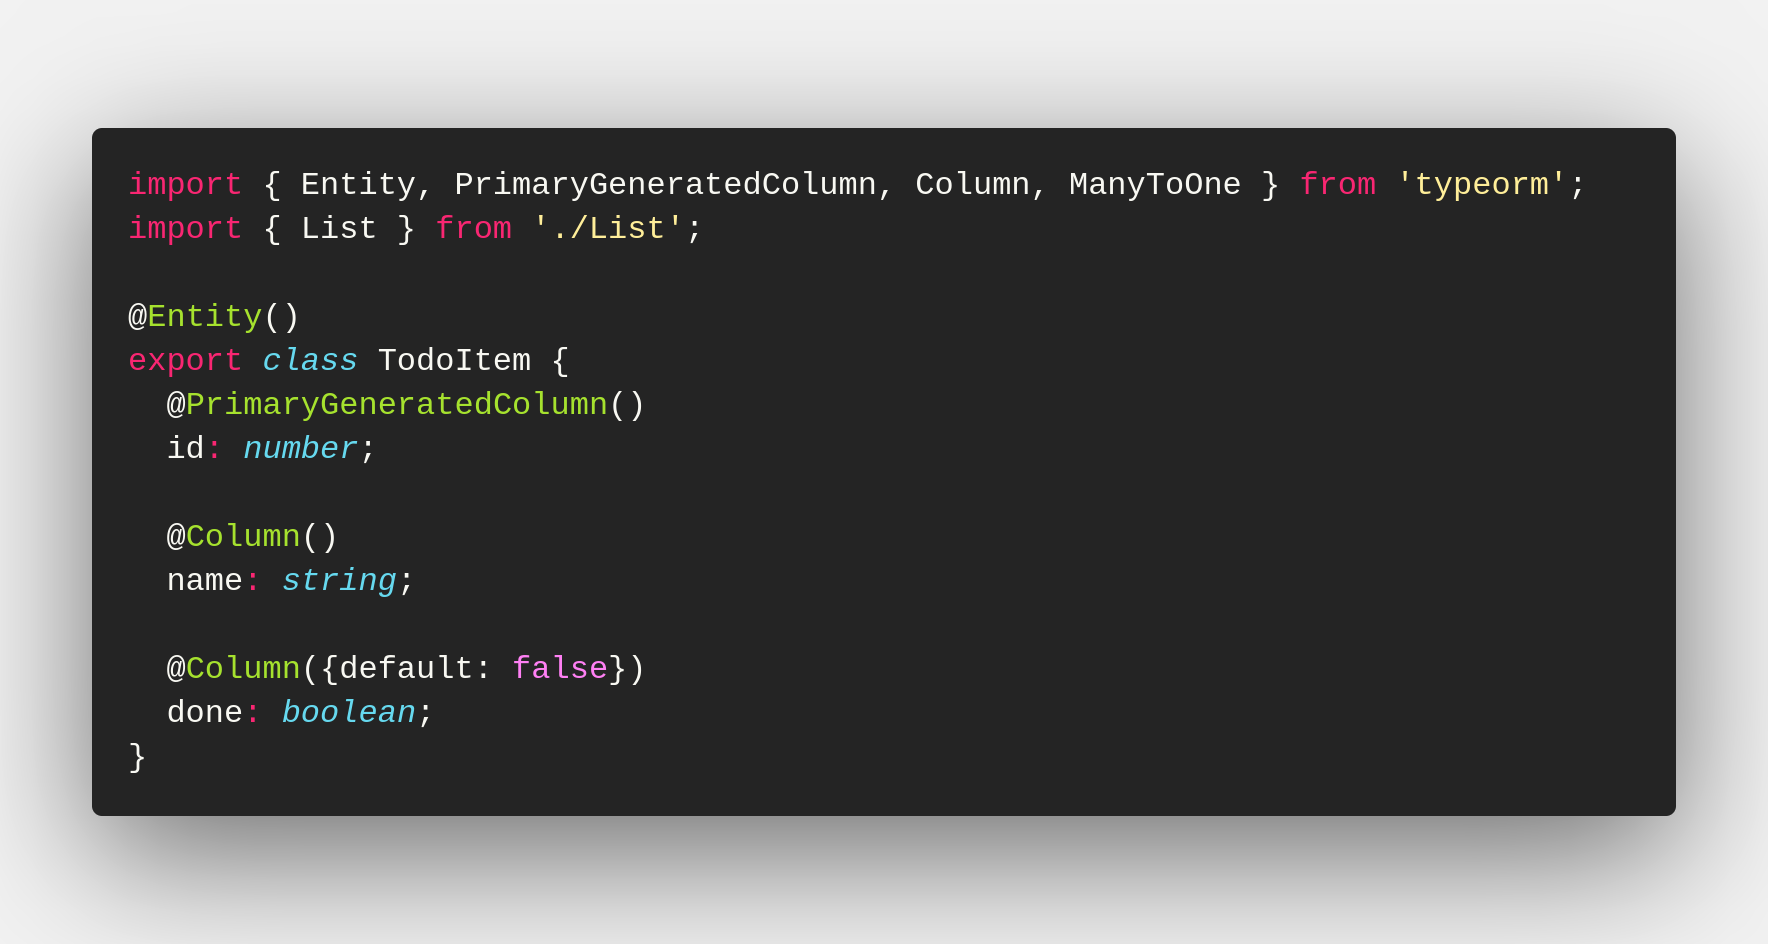
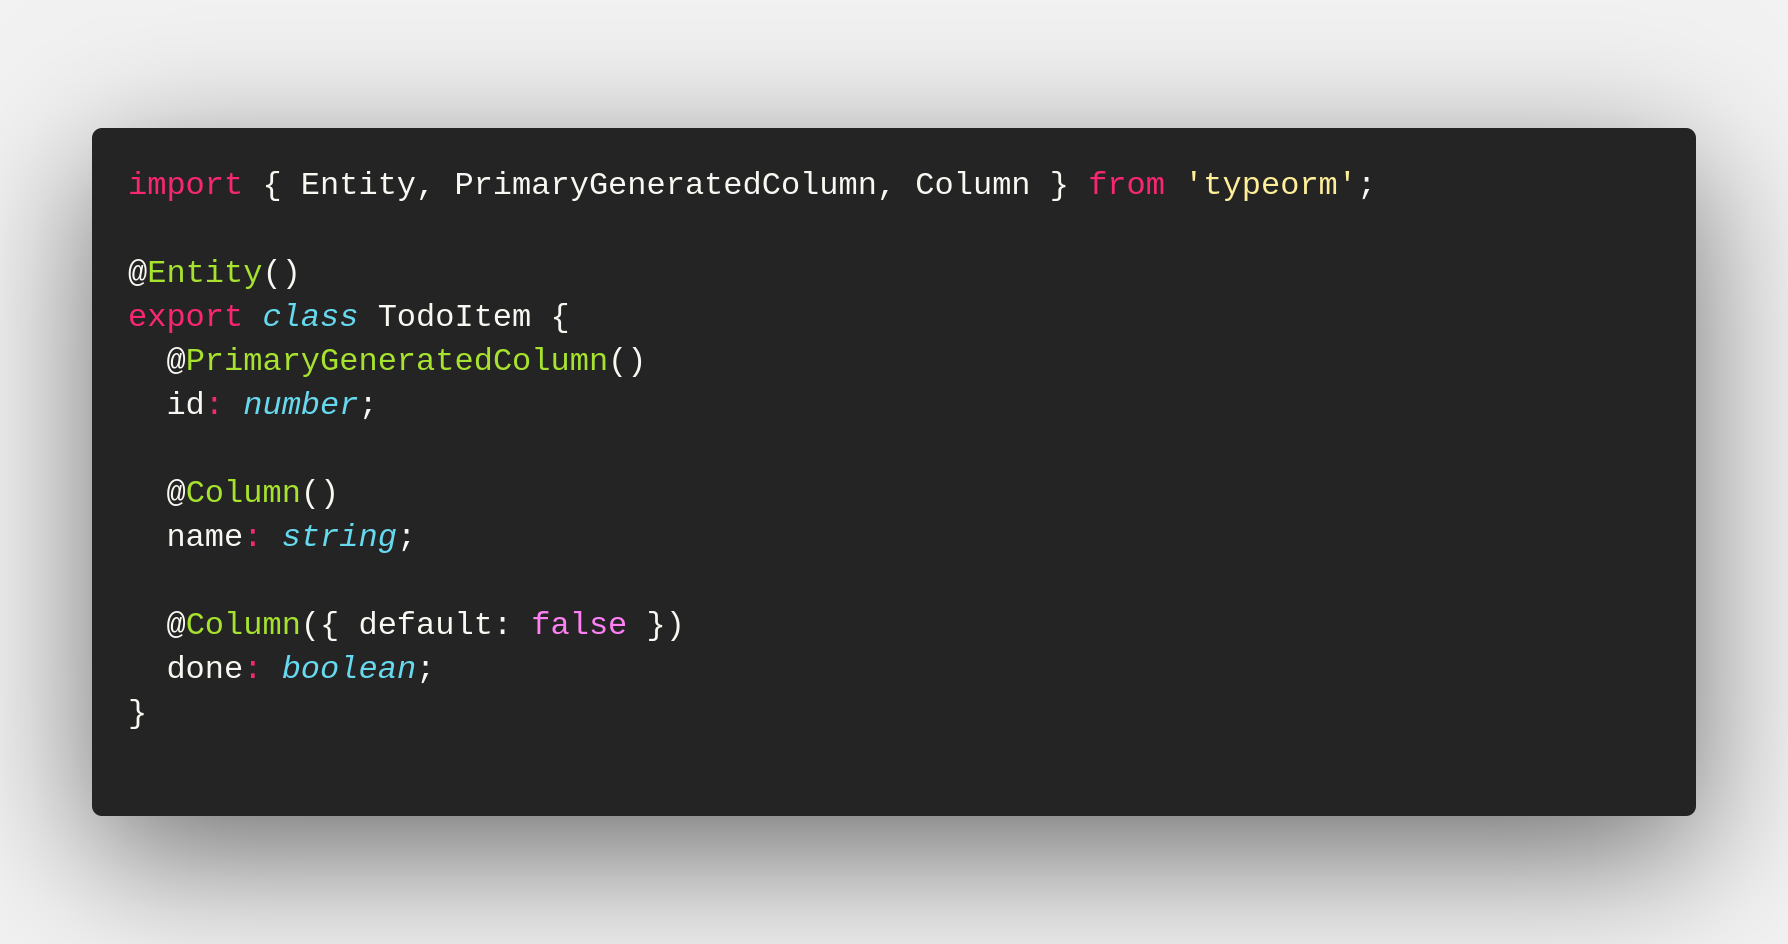
update screenshots

Changed region(s): [[0.0622, 0.1843, 0.7777, 0.768], [0.8088, 0.1843, 0.9021, 0.215], [0.3111, 0.7066, 0.3422, 0.7373]]

diff --git a/libs/db/src/lib/entity/TodoItem.ts b/libs/db/src/lib/entity/TodoItem.ts
@@ -1,23 +1,13 @@
-import { Field, ID, ObjectType } from 'type-graphql';
-import { Entity, PrimaryGeneratedColumn, Column, ManyToOne } from 'typeorm';
-import { List } from './List';
+import { Entity, PrimaryGeneratedColumn, Column } from 'typeorm';
 
 @Entity()
-@ObjectType()
 export class TodoItem {
-  @Field(() => ID)
   @PrimaryGeneratedColumn()
   id: number;
 
-  @Field()
   @Column()
   name: string;
 
-  @Field()
   @Column({ default: false })
   done: boolean;
-
-  @Field(() => List)
-  @ManyToOne(() => List, (list) => list.items)
-  list: Promise<List>;
 }
